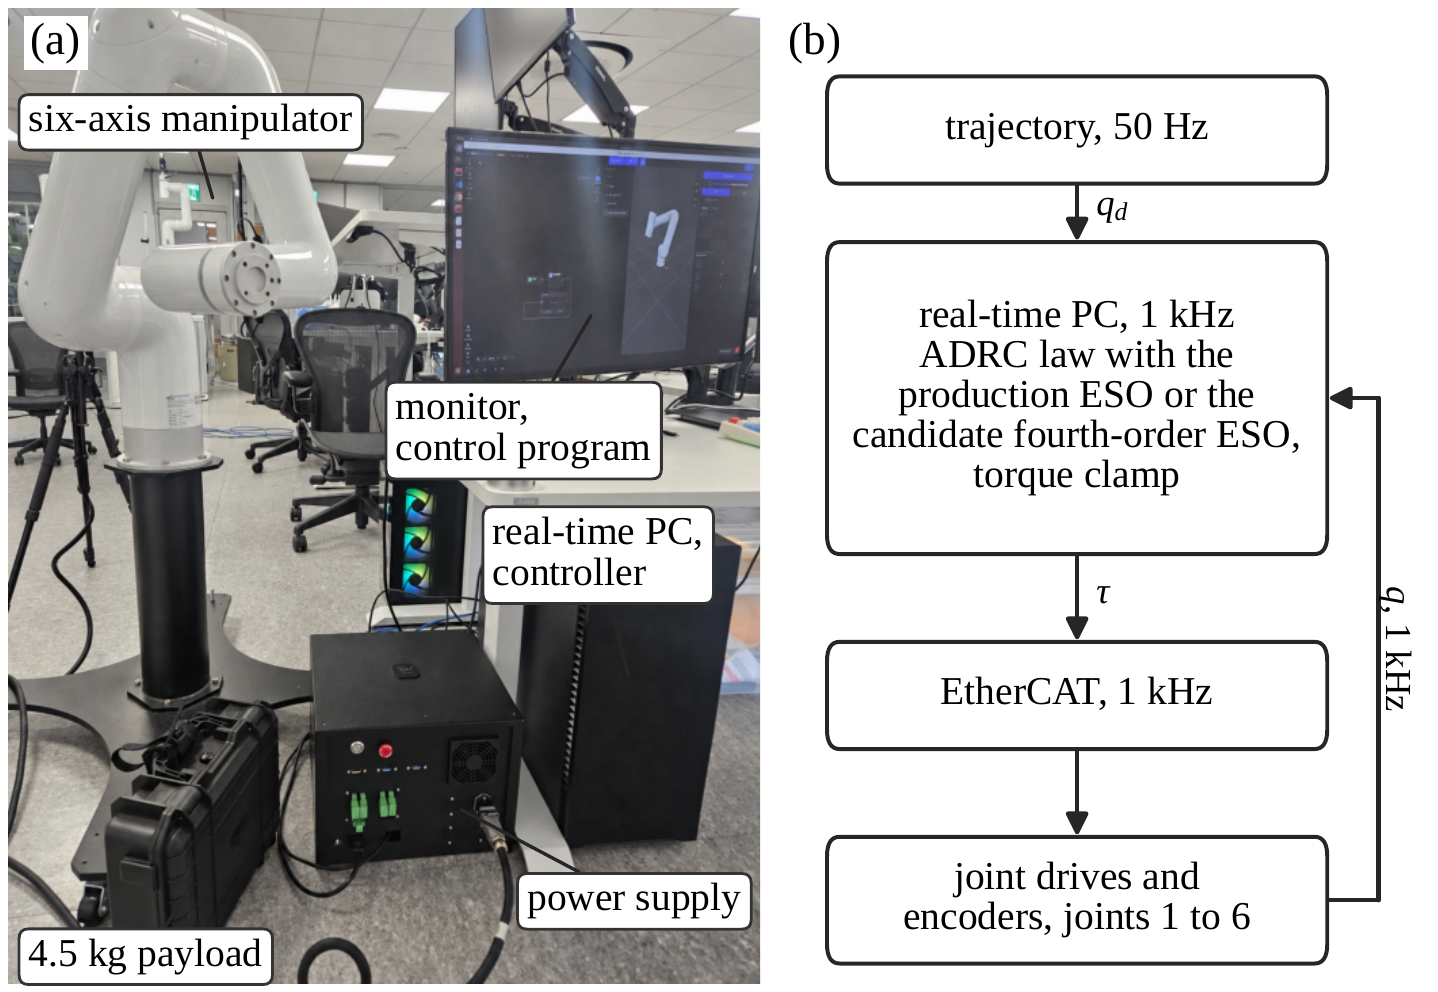
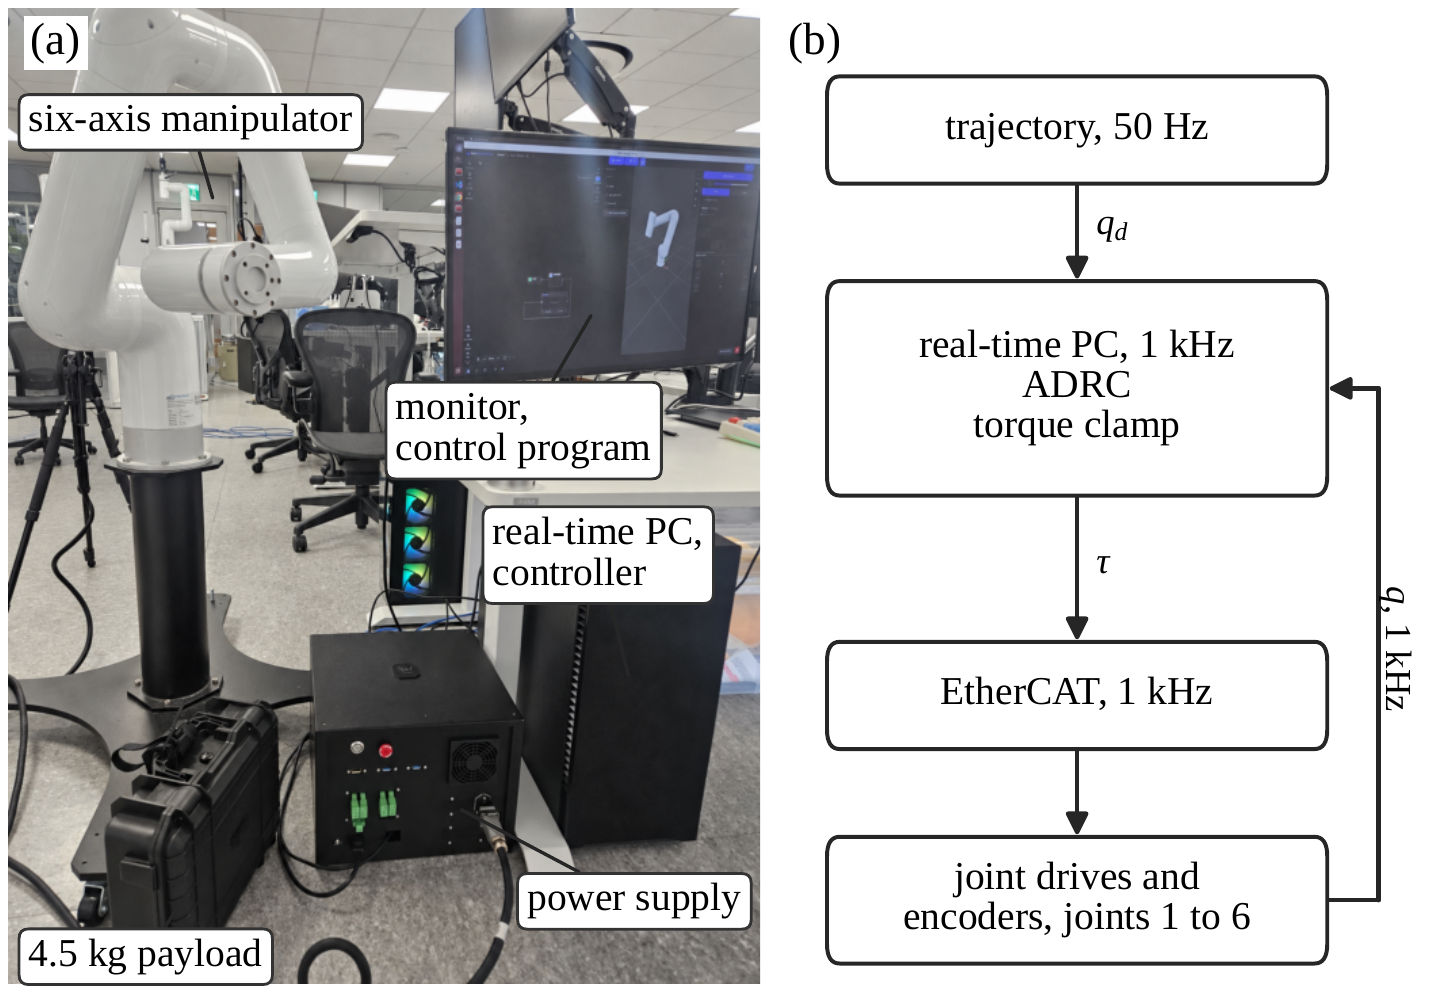
Set-up figure, real-time PC box reads ADRC

diff --git a/index.html b/index.html
@@ -156,7 +156,7 @@
     <section class="page-width section-space experiment-section" id="experiment-2" aria-labelledby="experiment-2-title">
       <h2 id="experiment-2-title">Robot, Cartesian line tracking on a six-axis manipulator</h2>
       <figure class="method-figure">
-        <img src="assets/setup.png?v=20261117a" alt="Experimental set-up. The six-axis manipulator on its pedestal, the 4.5 kg payload case, the power supply, the real-time PC that runs the controller and the monitor with the control program, and the signal chain from the trajectory through the real-time PC and EtherCAT to the joint drives.">
+        <img src="assets/setup.png?v=20261117b" alt="Experimental set-up. The six-axis manipulator on its pedestal, the 4.5 kg payload case, the power supply, the real-time PC that runs the controller and the monitor with the control program, and the signal chain from the trajectory through the real-time PC and EtherCAT to the joint drives.">
         <figcaption>Experimental set-up (Fig. 7 of the paper). (a) The lab, the six-axis manipulator on its pedestal, the 4.5 kg payload case, the power supply, the real-time PC that runs the controller and the monitor with the control program. (b) Signal chain. The trajectory is streamed at 50 Hz to the real-time PC, which runs the ADRC law with the production or the candidate observer at 1 kHz over EtherCAT and logs the joint states and torques at the same rate.</figcaption>
       </figure>
       <figure class="method-figure">
